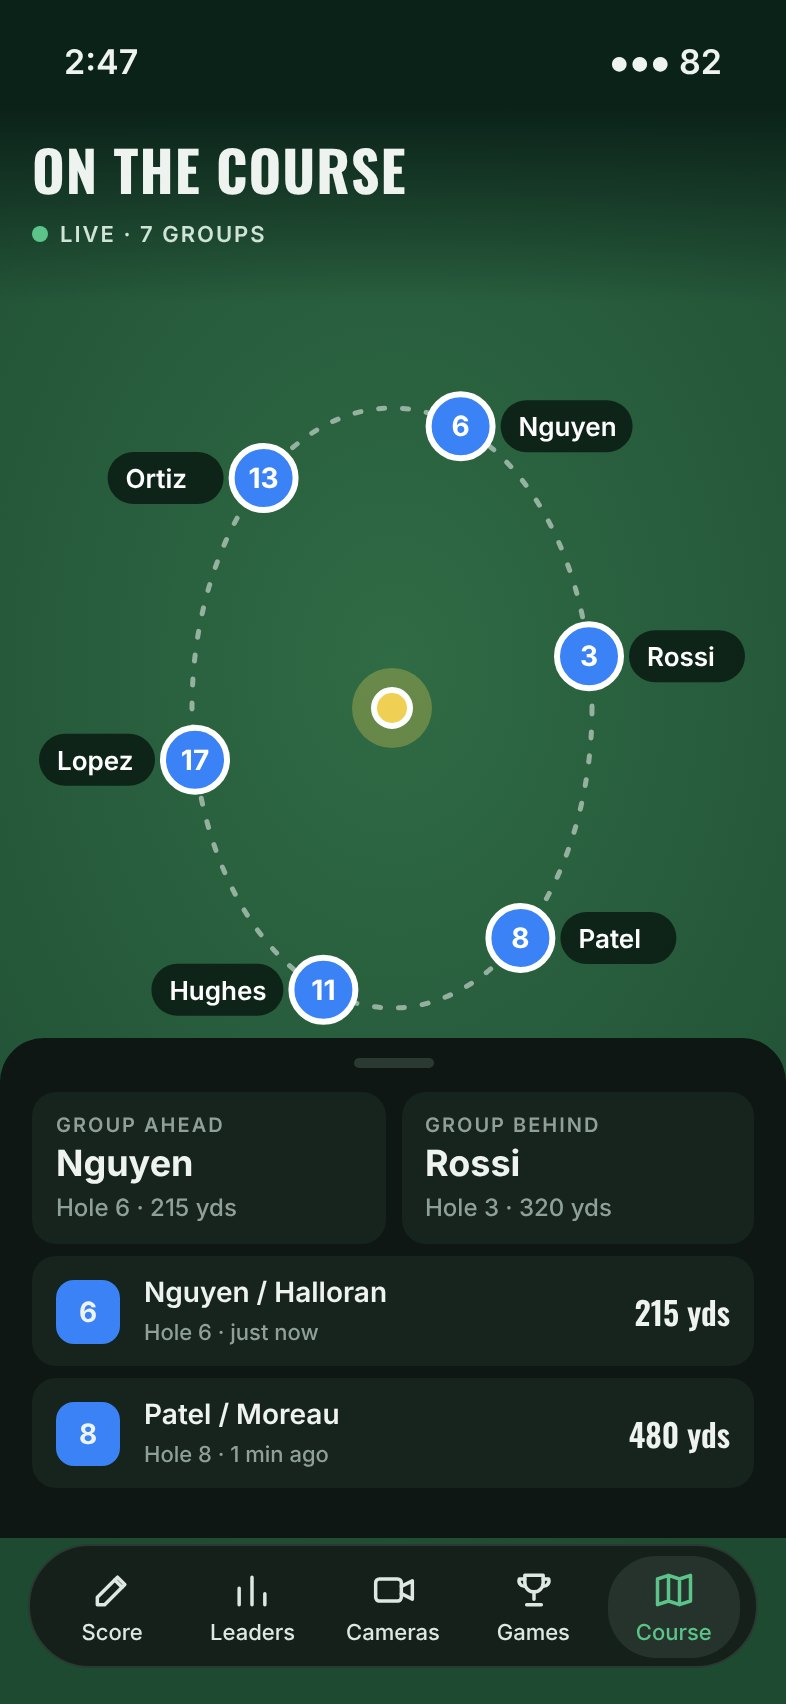
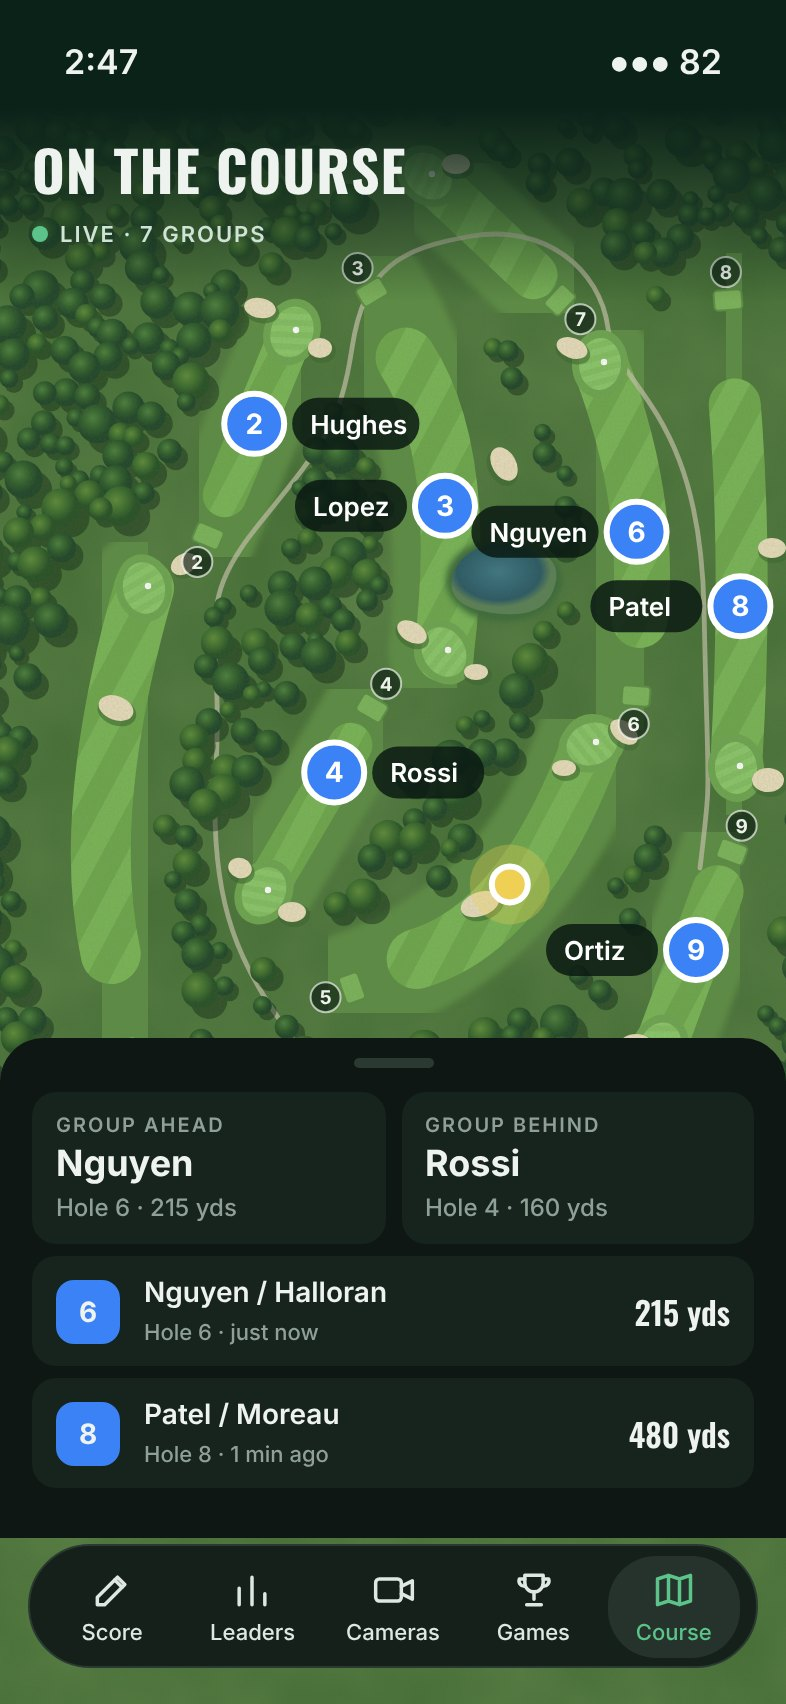
Website: the app's course map shows a real-looking course (fairways, greens, bunkers, trees, a pond) with each group's pin walking its hole, instead of the dotted oval
Claude-Session: https://claude.ai/code/session_015TfEXmNvhujDj1Sc9AjT3T

diff --git a/public/app-screens/course-map.js b/public/app-screens/course-map.js
@@ -1,0 +1,135 @@
+// Draws a made-up parkland course from above (fairways, greens, bunkers, trees, a pond)
+// and walks the sample groups along their holes. No map tiles: nothing to license.
+(() => {
+  const NS = 'http://www.w3.org/2000/svg';
+  const svg = document.getElementById('course');
+  const el = (tag, at, parent) => { const e = document.createElementNS(NS, tag); for (const k in at) e.setAttribute(k, at[k]); (parent || svg).appendChild(e); return e; };
+  let seed = 1867; const rnd = () => ((seed = (seed * 16807) % 2147483647) / 2147483647);
+
+  // Each hole: tee to green through its bend. w = fairway width.
+  const HOLES = [
+    { n: 1, p: [[62, 470], [40, 352], [72, 240]], w: 30 },
+    { n: 2, p: [[104, 214], [146, 112]], w: 22 },
+    { n: 3, p: [[186, 92], [234, 172], [222, 272]], w: 30 },
+    { n: 4, p: [[186, 300], [132, 392]], w: 22 },
+    { n: 5, p: [[176, 440], [262, 410], [296, 318]], w: 30 },
+    { n: 6, p: [[318, 294], [326, 196], [300, 128]], w: 28 },
+    { n: 7, p: [[280, 96], [214, 34]], w: 24 },
+    { n: 8, p: [[364, 96], [374, 230], [368, 330]], w: 26 },
+    { n: 9, p: [[366, 372], [330, 470]], w: 26 },
+  ];
+  const BUNKERS = [[58, 300, 9, 6, 20], [92, 228, 7, 5, -30], [130, 100, 8, 5, 10], [160, 120, 6, 5, 0], [252, 178, 9, 6, 60], [206, 262, 8, 5, 30], [238, 282, 6, 4, 0], [120, 380, 6, 5, 20], [146, 402, 7, 5, 0], [240, 398, 10, 6, -20], [312, 312, 8, 5, 40], [282, 330, 6, 4, 0], [310, 210, 7, 5, -10], [286, 120, 8, 5, 20], [228, 28, 7, 5, 0], [386, 220, 7, 5, 0], [384, 336, 8, 6, 0], [318, 468, 8, 5, 0]];
+  const POND = { x: 252, y: 236, rx: 26, ry: 18 };
+
+  // Geometry helpers
+  const segDist = (x, y, [ax, ay], [bx, by]) => { const dx = bx - ax, dy = by - ay, t = Math.max(0, Math.min(1, ((x - ax) * dx + (y - ay) * dy) / (dx * dx + dy * dy))); return Math.hypot(x - ax - t * dx, y - ay - t * dy); };
+  const holeDist = (x, y, h) => { let d = 1e9; for (let i = 1; i < h.p.length; i++) d = Math.min(d, segDist(x, y, h.p[i - 1], h.p[i])); return d; };
+  const curve = (p) => p.length === 2 ? `M${p[0]}L${p[1]}` : `M${p[0]}Q${p[1]} ${p[2]}`;
+  const along = (h, t) => { // point on the hole's curve at 0..1
+    const [a, b, c] = h.p; if (!c) return [a[0] + (b[0] - a[0]) * t, a[1] + (b[1] - a[1]) * t];
+    const u = 1 - t; return [u * u * a[0] + 2 * u * t * b[0] + t * t * c[0], u * u * a[1] + 2 * u * t * b[1] + t * t * c[1]];
+  };
+
+  // Textures
+  const defs = el('defs', {});
+  defs.innerHTML = `
+    <filter id="grain" x="0" y="0" width="100%" height="100%"><feTurbulence type="fractalNoise" baseFrequency=".9" numOctaves="2" seed="4"/><feColorMatrix values="0 0 0 0 .12  0 0 0 0 .2  0 0 0 0 .08  0 0 0 .55 0"/><feComposite in2="SourceGraphic" operator="in"/></filter>
+    <filter id="mottle" x="0" y="0" width="100%" height="100%"><feTurbulence type="fractalNoise" baseFrequency=".018" numOctaves="3" seed="9"/><feColorMatrix values="0 0 0 0 .2  0 0 0 0 .32  0 0 0 0 .12  0 0 0 .9 -.2"/></filter>
+    <filter id="soft"><feGaussianBlur stdDeviation="1.6"/></filter>
+    <pattern id="stripes" width="22" height="22" patternUnits="userSpaceOnUse" patternTransform="rotate(28)"><rect width="22" height="22" fill="#7ab457"/><rect width="11" height="22" fill="#6fa64d"/></pattern>
+    <pattern id="gstripes" width="6" height="6" patternUnits="userSpaceOnUse" patternTransform="rotate(-20)"><rect width="6" height="6" fill="#8cc66a"/><rect width="3" height="6" fill="#84bd62"/></pattern>
+    <radialGradient id="water" cx=".45" cy=".4"><stop offset="0" stop-color="#3f7684"/><stop offset=".8" stop-color="#2b5866"/><stop offset="1" stop-color="#5c7f56"/></radialGradient>
+    <radialGradient id="tree" cx=".38" cy=".35"><stop offset="0" stop-color="#4d7f3d"/><stop offset=".6" stop-color="#2f5a2c"/><stop offset="1" stop-color="#21452a"/></radialGradient>
+    <radialGradient id="tree2" cx=".38" cy=".35"><stop offset="0" stop-color="#5f8a3a"/><stop offset=".6" stop-color="#3c6a2e"/><stop offset="1" stop-color="#284f27"/></radialGradient>`;
+
+  // Ground: rough with a mottled, grainy look
+  el('rect', { width: 393, height: 798, fill: '#466f36' });
+  el('rect', { width: 393, height: 798, filter: 'url(#mottle)', opacity: .55 });
+
+  // Light rough around each hole, then the striped fairway on top
+  for (const h of HOLES) el('path', { d: curve(h.p), fill: 'none', stroke: '#5d8c45', 'stroke-width': h.w + 26, 'stroke-linecap': 'round', filter: 'url(#soft)' });
+  const mask = el('mask', { id: 'fw' }, defs);
+  for (const h of HOLES) {
+    const [a] = h.p, t = along(h, .2); // fairway starts a little past the tee
+    const p2 = [...h.p]; p2[0] = t; el('path', { d: curve(p2), fill: 'none', stroke: '#fff', 'stroke-width': h.w, 'stroke-linecap': 'round' }, mask);
+  }
+  el('rect', { width: 393, height: 798, fill: 'url(#stripes)', mask: 'url(#fw)' });
+
+  // Cart path winding between holes
+  el('path', { d: 'M150 470C120 430 104 400 108 330S96 250 128 210 170 160 176 120 200 70 236 64 300 80 304 110 350 150 352 250 356 330 350 380', fill: 'none', stroke: '#c9c3ad', 'stroke-width': 2.4, opacity: .7, 'stroke-linecap': 'round' });
+
+  // Pond
+  el('ellipse', { cx: POND.x, cy: POND.y, rx: POND.rx + 3, ry: POND.ry + 3, fill: '#3e6a3a', filter: 'url(#soft)' });
+  el('path', { d: `M${POND.x - POND.rx} ${POND.y}c2-14 18-20 30-18s24 6 22 18-10 18-26 17-28-6-26-17z`, fill: 'url(#water)' });
+
+  // Trees: clumps everywhere that is not a hole, the pond or the clubhouse
+  const trees = [];
+  for (let i = 0; i < 2600 && trees.length < 420; i++) {
+    const x = rnd() * 420 - 14, y = rnd() * 520 - 10, r = 4 + rnd() * 6;
+    if (HOLES.some((h) => holeDist(x, y, h) < h.w / 2 + 16 + r)) continue;
+    if (Math.hypot((x - POND.x) / (POND.rx + 10), (y - POND.y) / (POND.ry + 10)) < 1) continue;
+    if (trees.some((t) => Math.hypot(t.x - x, t.y - y) < (t.r + r) * .62)) continue;
+    trees.push({ x, y, r });
+  }
+  trees.sort((a, b) => a.y - b.y);
+  const shade = el('g', { opacity: .45 }); const crowns = el('g', {});
+  for (const t of trees) {
+    el('circle', { cx: t.x + t.r * .5, cy: t.y + t.r * .55, r: t.r, fill: '#0e2414' }, shade);
+    el('circle', { cx: t.x, cy: t.y, r: t.r, fill: rnd() < .3 ? 'url(#tree2)' : 'url(#tree)' }, crowns);
+  }
+
+  // Tees, greens, bunkers
+  for (const h of HOLES) {
+    const [tx, ty] = h.p[0], [nx, ny] = h.p[1], ang = Math.atan2(ny - ty, nx - tx) * 180 / Math.PI;
+    el('rect', { x: -7, y: -5, width: 14, height: 10, rx: 2, fill: '#7db35b', stroke: '#5b8d45', 'stroke-width': 1, transform: `translate(${tx} ${ty}) rotate(${ang + 90})` });
+    const [gx, gy] = h.p[h.p.length - 1];
+    el('ellipse', { cx: gx, cy: gy, rx: 17, ry: 14, fill: '#6fa451', transform: `rotate(${ang} ${gx} ${gy})` });
+    el('ellipse', { cx: gx, cy: gy, rx: 13, ry: 10.5, fill: 'url(#gstripes)', transform: `rotate(${ang} ${gx} ${gy})` });
+    el('circle', { cx: gx + 2, cy: gy - 1, r: 1.6, fill: '#fff' });
+  }
+  for (const [x, y, rx, ry, a] of BUNKERS) {
+    el('ellipse', { cx: x + 1, cy: y + 1.5, rx: rx + 1, ry: ry + 1, fill: '#3e6630', opacity: .6, transform: `rotate(${a} ${x} ${y})` });
+    el('ellipse', { cx: x, cy: y, rx, ry, fill: '#e9dcbc', transform: `rotate(${a} ${x} ${y})` });
+  }
+  // Sun-grain over everything for an aerial-photo feel
+  el('rect', { width: 393, height: 798, fill: '#fff', filter: 'url(#grain)', opacity: .35 });
+
+  // Small hole numbers by each tee
+  for (const h of HOLES) {
+    const [tx, ty] = h.p[0], [nx, ny] = h.p[1], d = Math.hypot(nx - tx, ny - ty), ox = -(nx - tx) / d * 14, oy = -(ny - ty) / d * 14;
+    const g = el('g', { transform: `translate(${tx + ox} ${ty + oy})`, opacity: .9 });
+    el('circle', { r: 7.5, fill: 'rgba(8,24,16,.7)', stroke: 'rgba(255,255,255,.7)', 'stroke-width': 1 }, g);
+    el('text', { y: 3.5, fill: '#fff', 'font-family': 'Inter', 'font-weight': 700, 'font-size': 9.5, 'text-anchor': 'middle' }, g).textContent = h.n;
+  }
+
+  // Groups on the course. t = how far along their hole they are.
+  const GROUPS = [{ n: 'Hughes', h: 2, t: .55 }, { n: 'Lopez', h: 3, t: .62, left: true }, { n: 'Rossi', h: 4, t: .35 }, { n: 'Nguyen', h: 6, t: .45 }, { n: 'Patel', h: 8, t: .62 }, { n: 'Ortiz', h: 9, t: .5 }];
+  const ME = { h: 5, t: .55 };
+  const pins = el('g', {});
+  const mk = (gr) => {
+    const g = el('g', {}, pins), w = gr.n.length * 7.6 + 18;
+    el('circle', { r: 15, fill: '#3b82f6', stroke: '#fff', 'stroke-width': 3 }, g);
+    el('text', { y: 5, fill: '#fff', 'font-family': 'Inter', 'font-weight': 700, 'font-size': 14, 'text-anchor': 'middle' }, g).textContent = gr.h;
+    const r = el('rect', { y: -13, rx: 13, width: w, height: 26, fill: '#0b1a13', opacity: .85 }, g);
+    const tx = el('text', { y: 5, fill: '#fff', 'font-family': 'Inter', 'font-weight': 600, 'font-size': 13 }, g); tx.textContent = gr.n;
+    return { ...gr, g, r, tx, w, hole: HOLES[gr.h - 1] };
+  };
+  const all = GROUPS.map(mk);
+  const me = el('g', {}, pins); el('circle', { r: 20, fill: '#f0cf55', opacity: .3 }, me); el('circle', { r: 9, fill: '#f0cf55', stroke: '#fff', 'stroke-width': 3 }, me);
+  const meHole = HOLES[ME.h - 1];
+
+  const reduce = matchMedia('(prefers-reduced-motion: reduce)').matches;
+  const SPAN = .22, LOOP = 45; // each group walks about a fifth of its hole, then the loop restarts
+  let t0;
+  function step(now) {
+    t0 ??= now; const k = ((now - t0) / 1000 / LOOP) % 1, fade = Math.min(1, k * 12, (1 - k) * 12);
+    for (const d of all) {
+      const [x, y] = along(d.hole, d.t + k * SPAN), L = d.left || x > 290;
+      d.g.setAttribute('transform', `translate(${x.toFixed(1)} ${y.toFixed(1)})`); d.g.setAttribute('opacity', reduce ? 1 : fade.toFixed(2));
+      d.r.setAttribute('x', L ? -(d.w + 19) : 19); d.tx.setAttribute('x', L ? -(d.w + 10) : 28);
+    }
+    const [mx, my] = along(meHole, ME.t + k * SPAN); me.setAttribute('transform', `translate(${mx.toFixed(1)} ${my.toFixed(1)})`); me.setAttribute('opacity', reduce ? 1 : fade.toFixed(2));
+    if (!reduce) requestAnimationFrame(step);
+  }
+  requestAnimationFrame(step);
+})();

diff --git a/public/app-screens/course.html b/public/app-screens/course.html
@@ -131,7 +131,7 @@ body{background:transparent;font-family:Inter,-apple-system,sans-serif;margin:0;
 .stats div{flex:1;background:var(--card);border-radius:12px;padding:10px;text-align:center}
 .stats b{display:block;font:600 24px Oswald}
 .stats small{font:600 9px Inter;letter-spacing:1px;color:var(--mut);text-transform:uppercase}
-.map{position:absolute;left:0;right:0;top:54px;bottom:0;background:radial-gradient(90% 60% at 50% 35%,#2f6b45,#1e4a31)}
+.map{position:absolute;left:0;right:0;top:54px;bottom:0;background:#4d7a3c;overflow:hidden}
 .mtop{position:absolute;left:0;right:0;top:54px;padding:10px 16px 26px;background:linear-gradient(#0b2219,rgba(11,34,25,0))}
 .mtop b{font:700 28px Oswald;letter-spacing:.5px;display:block}
 .mtop small{font:600 11px Inter;letter-spacing:1px;color:#cfe3d6}
@@ -166,18 +166,10 @@ html,body{overflow:hidden;width:393px;height:852px}
 .lv i,.mtop small i{animation:blink 1.4s infinite}
 @keyframes blink{50%{opacity:.25}}
 @media (prefers-reduced-motion:reduce){*{animation:none!important;transition:none!important}}
-</style></head><body><div class="phone"><div class="status"><span>2:47</span><span>●●● 82</span></div><div class="map"><svg viewBox="0 0 393 798" width="393" height="798" style="position:absolute;inset:0">
-<ellipse cx="196" cy="300" rx="100" ry="150" fill="none" stroke="rgba(255,255,255,.5)" stroke-width="2.5" stroke-dasharray="3 9" stroke-linecap="round"/><g transform="translate(130 196)"><circle r="16" fill="#3b82f6" stroke="#fff" stroke-width="3"/><text y="5" fill="#fff" font-family="Inter" font-weight="700" font-size="14" text-anchor="middle">6</text><rect x="20" y="-13" rx="13" width="66" height="26" fill="#0b1a13" opacity=".85"/><text x="29" y="5" fill="#fff" font-family="Inter" font-weight="600" font-size="13">Nguyen</text></g><g transform="translate(268 246)"><circle r="16" fill="#3b82f6" stroke="#fff" stroke-width="3"/><text y="5" fill="#fff" font-family="Inter" font-weight="700" font-size="14" text-anchor="middle">3</text><rect x="20" y="-13" rx="13" width="58" height="26" fill="#0b1a13" opacity=".85"/><text x="29" y="5" fill="#fff" font-family="Inter" font-weight="600" font-size="13">Rossi</text></g><g transform="translate(80 276)"><circle r="16" fill="#3b82f6" stroke="#fff" stroke-width="3"/><text y="5" fill="#fff" font-family="Inter" font-weight="700" font-size="14" text-anchor="middle">8</text><rect x="20" y="-13" rx="13" width="58" height="26" fill="#0b1a13" opacity=".85"/><text x="29" y="5" fill="#fff" font-family="Inter" font-weight="600" font-size="13">Patel</text></g><g transform="translate(85 396)"><circle r="16" fill="#3b82f6" stroke="#fff" stroke-width="3"/><text y="5" fill="#fff" font-family="Inter" font-weight="700" font-size="14" text-anchor="middle">11</text><rect x="20" y="-13" rx="13" width="66" height="26" fill="#0b1a13" opacity=".85"/><text x="29" y="5" fill="#fff" font-family="Inter" font-weight="600" font-size="13">Hughes</text></g><g transform="translate(300 380)"><circle r="16" fill="#3b82f6" stroke="#fff" stroke-width="3"/><text y="5" fill="#fff" font-family="Inter" font-weight="700" font-size="14" text-anchor="middle">17</text><rect x="20" y="-13" rx="13" width="58" height="26" fill="#0b1a13" opacity=".85"/><text x="29" y="5" fill="#fff" font-family="Inter" font-weight="600" font-size="13">Lopez</text></g><g transform="translate(240 440)"><circle r="16" fill="#3b82f6" stroke="#fff" stroke-width="3"/><text y="5" fill="#fff" font-family="Inter" font-weight="700" font-size="14" text-anchor="middle">13</text><rect x="20" y="-13" rx="13" width="58" height="26" fill="#0b1a13" opacity=".85"/><text x="29" y="5" fill="#fff" font-family="Inter" font-weight="600" font-size="13">Ortiz</text></g><g transform="translate(196 300)"><circle r="20" fill="#f0cf55" opacity=".3"/><circle r="9" fill="#f0cf55" stroke="#fff" stroke-width="3"/></g></svg></div>
+</style></head><body><div class="phone"><div class="status"><span>2:47</span><span>●●● 82</span></div><div class="map"><svg id="course" viewBox="0 0 393 798" width="393" height="798" style="position:absolute;inset:0"></svg></div>
 <div class="mtop"><b>ON THE COURSE</b><small><i></i>LIVE · 7 GROUPS</small></div>
 <div class="sheet" style="bottom:83px;height:250px"><div class="grab"></div>
-<div class="nb"><div><small>Group ahead</small><b>Nguyen</b><span>Hole 6 · 215 yds</span></div><div><small>Group behind</small><b>Rossi</b><span>Hole 3 · 320 yds</span></div></div>
+<div class="nb"><div><small>Group ahead</small><b>Nguyen</b><span>Hole 6 · 215 yds</span></div><div><small>Group behind</small><b>Rossi</b><span>Hole 4 · 160 yds</span></div></div>
 <div class="gl"><i>6</i><span><b>Nguyen / Halloran</b><small>Hole 6 · just now</small></span><em>215 yds</em></div>
 <div class="gl"><i>8</i><span><b>Patel / Moreau</b><small>Hole 8 · 1 min ago</small></span><em>480 yds</em></div></div>
-<div class="tabs" style="background:#15201b"><div><svg viewBox="0 0 24 24"><path d="M4 20h4L19 9l-4-4L4 16z"/><path d="m13.5 6.5 4 4"/></svg>Score</div><div><svg viewBox="0 0 24 24"><path d="M5 20V11M12 20V5M19 20v-6"/></svg>Leaders</div><div><svg viewBox="0 0 24 24"><rect x="2" y="6" width="14" height="12" rx="2"/><path d="m16 10 6-3v10l-6-3"/></svg>Cameras</div><div><svg viewBox="0 0 24 24"><path d="M7 4h10v4a5 5 0 0 1-10 0z"/><path d="M7 6H4a3 3 0 0 0 3 4M17 6h3a3 3 0 0 1-3 4M12 13v4M8 20h8"/></svg>Games</div><div class=on><svg viewBox="0 0 24 24"><path d="M9 4 3 6v14l6-2 6 2 6-2V4l-6 2-6-2zM9 4v14M15 6v14"/></svg>Course</div></div></div><script>
-const reduce=matchMedia('(prefers-reduced-motion: reduce)').matches;
-const cx=196,cy=300,rx=100,ry=150;
-const gs=[...document.querySelectorAll('.map g[transform]')].slice(0,6).map((g,i)=>{const r=g.querySelector('rect'),tx=g.querySelectorAll('text')[1];return{g,r,tx,w:+r.getAttribute('width'),a:-Math.PI/2+i*Math.PI*2/6+.35}});
-let t0;
-function step(t){t0??=t;const da=(t-t0)/1000*.06;for(const d of gs){const x=cx+rx*Math.cos(d.a+da),y=cy+ry*Math.sin(d.a+da);d.g.setAttribute('transform',`translate(${x.toFixed(1)} ${y.toFixed(1)})`);const L=x<cx;d.r.setAttribute('x',L?-(d.w+20):20);d.tx.setAttribute('x',L?-(d.w+11):29)}if(!reduce)requestAnimationFrame(step)}
-requestAnimationFrame(step);
-</script></body></html>
+<div class="tabs" style="background:#15201b"><div><svg viewBox="0 0 24 24"><path d="M4 20h4L19 9l-4-4L4 16z"/><path d="m13.5 6.5 4 4"/></svg>Score</div><div><svg viewBox="0 0 24 24"><path d="M5 20V11M12 20V5M19 20v-6"/></svg>Leaders</div><div><svg viewBox="0 0 24 24"><rect x="2" y="6" width="14" height="12" rx="2"/><path d="m16 10 6-3v10l-6-3"/></svg>Cameras</div><div><svg viewBox="0 0 24 24"><path d="M7 4h10v4a5 5 0 0 1-10 0z"/><path d="M7 6H4a3 3 0 0 0 3 4M17 6h3a3 3 0 0 1-3 4M12 13v4M8 20h8"/></svg>Games</div><div class=on><svg viewBox="0 0 24 24"><path d="M9 4 3 6v14l6-2 6 2 6-2V4l-6 2-6-2zM9 4v14M15 6v14"/></svg>Course</div></div></div><script src="course-map.js"></script></body></html>
